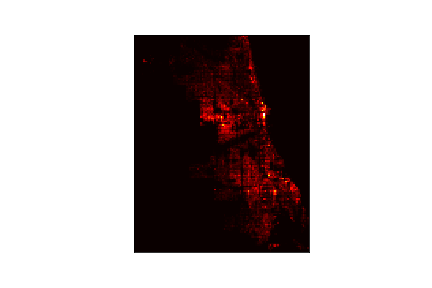
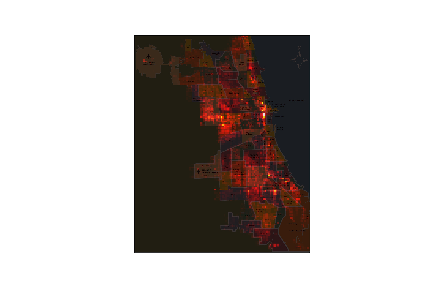
Added map background

Changed region(s): [[0.3009, 0.125, 0.7222, 0.875]]

diff --git a/data_plot.py b/data_plot.py
@@ -1,5 +1,7 @@
 import numpy as np 
 import matplotlib.pyplot as plt 
+from scipy.misc import imread
+import matplotlib.cbook as cbook
 
 
 dataCoord = np.load('dataCoord.npy')    #load coordinate data
@@ -36,8 +38,15 @@ heatIm =  np.zeros([int(np.ceil((y_len+1)/data_reduce)), int(np.ceil((x_len+1)/d
 for i in range(len(X)):
 	heatIm[abs(int(y_shift[i]/data_reduce)-heatIm.shape[0]+1), int(x_shift[i]/data_reduce)] += int(sev[i]*10)
 
+
+#Image background
+img = imread('chicago_image.jpg')
+plt.imshow(img, zorder=0, extent=[0, 112, 138, 0])
+
+
+
 #plot and save image
-plt.imshow(heatIm,cmap='hot')
+plt.imshow(heatIm, zorder=1, cmap='hot', alpha=0.8)
 plt.xticks([])
 plt.yticks([])
 plt.savefig('heatmap.png')
